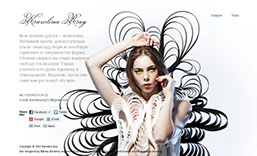
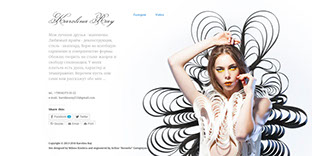
Update

diff --git a/404.html b/404.html
@@ -782,7 +782,7 @@ var __adobewebfontsappname__ = "muse";
       <div id="u109"><!-- group -->
        <div class="clearfix" id="u109_align_to_page">
         <div class="clearfix grpelem" id="u199-4"><!-- content -->
-         <p>Copyright 2015-2016 · Arthur Gareginyan&nbsp;&nbsp; |&nbsp;&nbsp; Design by Arthur Gareginyan</p>
+         <p>© 2015-2016 · Arthur Gareginyan&nbsp;&nbsp; |&nbsp;&nbsp; Design by Arthur Gareginyan</p>
         </div>
        </div>
       </div>

diff --git a/about-me.html b/about-me.html
@@ -837,7 +837,7 @@ var __adobewebfontsappname__ = "muse";
       <div id="u109"><!-- group -->
        <div class="clearfix" id="u109_align_to_page">
         <div class="clearfix grpelem" id="u199-4"><!-- content -->
-         <p>Copyright 2015-2016 · Arthur Gareginyan&nbsp;&nbsp; |&nbsp;&nbsp; Design by Arthur Gareginyan</p>
+         <p>© 2015-2016 · Arthur Gareginyan&nbsp;&nbsp; |&nbsp;&nbsp; Design by Arthur Gareginyan</p>
         </div>
        </div>
       </div>

diff --git a/contact-thanks.html b/contact-thanks.html
@@ -770,7 +770,7 @@ var __adobewebfontsappname__ = "muse";
       <div id="u109"><!-- group -->
        <div class="clearfix" id="u109_align_to_page">
         <div class="clearfix grpelem" id="u199-4"><!-- content -->
-         <p>Copyright 2015-2016 · Arthur Gareginyan&nbsp;&nbsp; |&nbsp;&nbsp; Design by Arthur Gareginyan</p>
+         <p>© 2015-2016 · Arthur Gareginyan&nbsp;&nbsp; |&nbsp;&nbsp; Design by Arthur Gareginyan</p>
         </div>
        </div>
       </div>

diff --git a/contact.html b/contact.html
@@ -899,7 +899,7 @@ var __adobewebfontsappname__ = "muse";
       <div id="u109"><!-- group -->
        <div class="clearfix" id="u109_align_to_page">
         <div class="clearfix grpelem" id="u199-4"><!-- content -->
-         <p>Copyright 2015-2016 · Arthur Gareginyan&nbsp;&nbsp; |&nbsp;&nbsp; Design by Arthur Gareginyan</p>
+         <p>© 2015-2016 · Arthur Gareginyan&nbsp;&nbsp; |&nbsp;&nbsp; Design by Arthur Gareginyan</p>
         </div>
        </div>
       </div>

diff --git a/donate-thanks.html b/donate-thanks.html
@@ -770,7 +770,7 @@ var __adobewebfontsappname__ = "muse";
       <div id="u109"><!-- group -->
        <div class="clearfix" id="u109_align_to_page">
         <div class="clearfix grpelem" id="u199-4"><!-- content -->
-         <p>Copyright 2015-2016 · Arthur Gareginyan&nbsp;&nbsp; |&nbsp;&nbsp; Design by Arthur Gareginyan</p>
+         <p>© 2015-2016 · Arthur Gareginyan&nbsp;&nbsp; |&nbsp;&nbsp; Design by Arthur Gareginyan</p>
         </div>
        </div>
       </div>

diff --git a/donate.html b/donate.html
@@ -795,7 +795,7 @@ var __adobewebfontsappname__ = "muse";
       <div id="u109"><!-- group -->
        <div class="clearfix" id="u109_align_to_page">
         <div class="clearfix grpelem" id="u199-4"><!-- content -->
-         <p>Copyright 2015-2016 · Arthur Gareginyan&nbsp;&nbsp; |&nbsp;&nbsp; Design by Arthur Gareginyan</p>
+         <p>© 2015-2016 · Arthur Gareginyan&nbsp;&nbsp; |&nbsp;&nbsp; Design by Arthur Gareginyan</p>
         </div>
        </div>
       </div>

diff --git a/index.html b/index.html
@@ -808,7 +808,7 @@ var __adobewebfontsappname__ = "muse";
       <div id="u109"><!-- group -->
        <div class="clearfix" id="u109_align_to_page">
         <div class="clearfix grpelem" id="u199-4"><!-- content -->
-         <p>Copyright 2015-2016 · Arthur Gareginyan&nbsp;&nbsp; |&nbsp;&nbsp; Design by Arthur Gareginyan</p>
+         <p>© 2015-2016 · Arthur Gareginyan&nbsp;&nbsp; |&nbsp;&nbsp; Design by Arthur Gareginyan</p>
         </div>
        </div>
       </div>

diff --git a/portfolio.html b/portfolio.html
@@ -887,7 +887,7 @@ var __adobewebfontsappname__ = "muse";
       <div id="u109"><!-- group -->
        <div class="clearfix" id="u109_align_to_page">
         <div class="clearfix grpelem" id="u199-4"><!-- content -->
-         <p>Copyright 2015-2016 · Arthur Gareginyan&nbsp;&nbsp; |&nbsp;&nbsp; Design by Arthur Gareginyan</p>
+         <p>© 2015-2016 · Arthur Gareginyan&nbsp;&nbsp; |&nbsp;&nbsp; Design by Arthur Gareginyan</p>
         </div>
        </div>
       </div>

diff --git a/privacy-policy.html b/privacy-policy.html
@@ -792,7 +792,7 @@ var __adobewebfontsappname__ = "muse";
       <div id="u109"><!-- group -->
        <div class="clearfix" id="u109_align_to_page">
         <div class="clearfix grpelem" id="u199-4"><!-- content -->
-         <p>Copyright 2015-2016 · Arthur Gareginyan&nbsp;&nbsp; |&nbsp;&nbsp; Design by Arthur Gareginyan</p>
+         <p>© 2015-2016 · Arthur Gareginyan&nbsp;&nbsp; |&nbsp;&nbsp; Design by Arthur Gareginyan</p>
         </div>
        </div>
       </div>

diff --git a/resume.html b/resume.html
@@ -882,7 +882,7 @@ var __adobewebfontsappname__ = "muse";
       <div id="u109"><!-- group -->
        <div class="clearfix" id="u109_align_to_page">
         <div class="clearfix grpelem" id="u199-4"><!-- content -->
-         <p>Copyright 2015-2016 · Arthur Gareginyan&nbsp;&nbsp; |&nbsp;&nbsp; Design by Arthur Gareginyan</p>
+         <p>© 2015-2016 · Arthur Gareginyan&nbsp;&nbsp; |&nbsp;&nbsp; Design by Arthur Gareginyan</p>
         </div>
        </div>
       </div>
